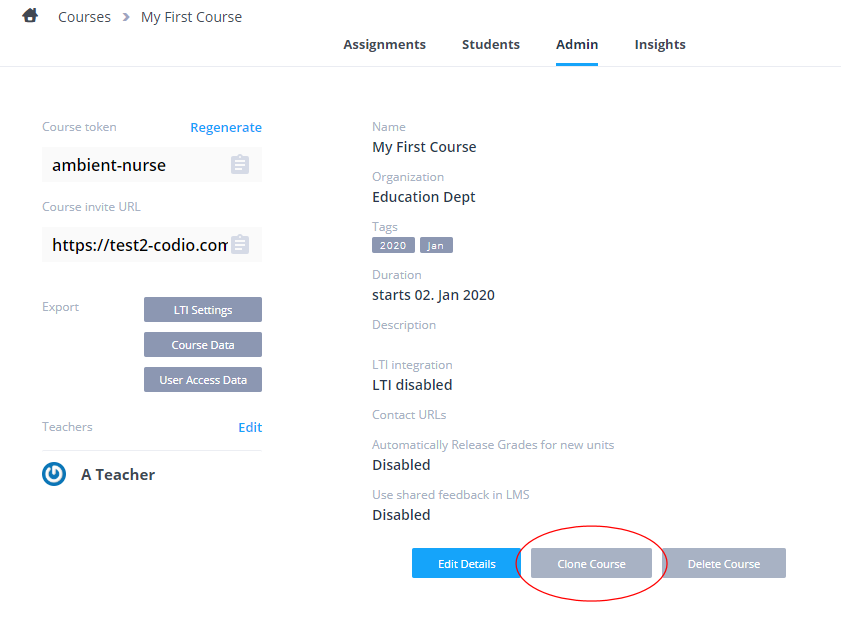
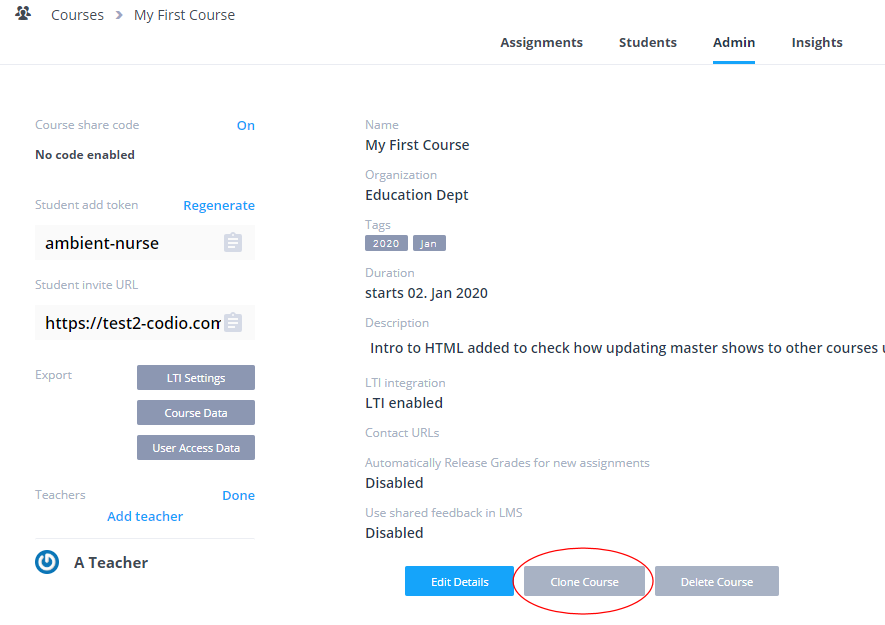
more updates

diff --git a/docs/courses/classes.md b/docs/courses/classes.md
@@ -34,14 +34,23 @@ To work with the course features in Codio you will first need to set up a course
 
 You can create courses from a code other users in other organisations can share to you. 
 
-1. Select the **From Share Code** option
+1. Select the **Add From Share Code** option
 
 1. Enter the code given and complete all other details and the course will be created for you.
-
+![Share Course Dash](/img/manage_classes/createsharecode.png)
 ### Sharing your course with others
 
-**TODO**
-![Share Course Dash](/img/manage_classes/sharecode.png)
+To share your course with others
+1. Select the existing course, go to the **Admin** area.
+
+1. Enable **Course share code** and a code will be generated.
+
+1. Copy to your clipboard and share out as required.
+
+1. In order that you can manage access you can disable the code and/or regenerate to create a new code and the original code can no longer be used.  
+
+![Create Share Code](/img/manage_classes/sharecode.png)
+
 ### Cloning a Course
 
 You can clone an existing course to create a new course in 2 ways
@@ -366,30 +375,30 @@ The simplest and quickest thing you can do is to assign one of your projects to 
 At this point, we take a snapshot of your source project, ready for the students to clone when they start the assignment. Any changes you make to the source project will not be reflected automatically in the student assignment.
 
 Once assigned to the course, each student will be able to access the assignment from their dashboard. Go to the **Students** tab and login as one of the test students. Make sure you have the correct course and module selected form the dropdowns. You will now see the assignment in the list. If you don't, make sure the module dropdown has the correct module name selected.  You can then switch back to your teacher account.
-### Assign resource modules to the course
+### Assign existing modules to the course
 You can assign existing course modules and all of its assignments to your course with a single action.
 
 To assign an existing course module, follow the steps below:
 
 1. From the **Courses** screen, click on your course to open it.
 
+1. Click on the **blue plus** sign, top left of the page, and choose **Add Copy from Existing**.
 
-
-1. Click on the **blue plus** sign, top left of the page, and choose **Copy from Existing**.
-![authtoken](/img/manage_classes/blue_plus.png)
+![Add Copy](/img/manage_classes/addcopy.png)
 
 1. Choose the course you want to copy the content from and select the modules you wish and click **Select**
 
-
 1. The module will appear in your course.
+
+To add Codio resources to your courses see [Creating from Resources](/resources/schoolscontent/coursefind/)
 
 ## Removing course module from a course
 
 You can remove course modules from a course selecting the **Delete** button
-![authtoken](/img/manage_classes/deletemodule.png)
+![delete module](/img/manage_classes/deletemodule.png)
 
 You can also remove individual assignments from a module, clicking the **Delete** button for that assignment
-![authtoken](/img/manage_classes/deleteassignment.png)
+![deleteassignment](/img/manage_classes/deleteassignment.png)
 
 **Warning**
 Deleting a module or assignment from your course also removes all student data for all the assignments in the module (including assessment data and results) and cannot be restored so you may wish to [Download CSV](/courses/grading/#download-csv-summary) before removing the module or assignment.

diff --git a/docs/dashboard/organisations.md b/docs/dashboard/organisations.md
@@ -193,9 +193,9 @@ You will be able to see all the members of your school organization.
 
 The **Test Students** group contains the demo student accounts created for you when the Organization was created. See [Test Students](/courses/classes/#test-students) for more information.
 
-The **Users without class** group contains all users that are not members of a course. See [Delete Course](/courses/classes/#deleting-a-course) for more information.  This may be as a result of a course being deleted or it may be that a new user has joined your organization but is not yet either a Teacher or a Student in a course.
+The **Users without course** group contains all users that are not members of a course. See [Delete Course](/courses/classes/#deleting-a-course) for more information.  This may be as a result of a course being deleted or it may be that a new user has joined your organization but is not yet either a Teacher or a Student in a course.
 Select this group and you can then remove these users from your organization if required.
-![authtoken](/img/manage_organization/orphanedusers.png)
+![OrphanedUsers](/img/manage_organization/orphanedusers.png)
 
 Please note that removing users from your Organization does not delete their Codio account. Only the account owner can [delete their account](/dashboard/account/#delete-your-account).
 
@@ -309,7 +309,7 @@ To remove members:
 1. You will be able to see all the members of your school organization.
 1. Choose **Remove** on the right hand side of the name of the person who you want to remove from your organization.
 
-1. If a course was deleted and students removed, they will show in the **Users without class** section and may be easier for you to find the students to remove
+1. If a course was deleted and students removed, they will show in the **Users without course** section and may be easier for you to find the students to remove
 
 
 1. If you want to use the freed-up accounts with new students, follow the steps listed in [Add students to a course](/courses/classes/#add-students-to-a-course)

diff --git a/docs/courses/authoring.md b/docs/courses/authoring.md
@@ -556,13 +556,13 @@ In a page authored using Markdown, you are able to create buttons and other acti
 - `codio.assessments.send(assessmentId, answer, points, callback)` - Sends result data for a custom assessment. `answer` contains the custom result data for `assessment` and will be stored in Codio. You can use `codio.assessments.get()` to reconstruct the output for an already answered question.
 - `codio.resetCurrentFiles()` - Allows students to restore current files in guides within your content.
 
-## Teacher only content  TODO
+## Teacher only content  
+
 Teacher only content can be viewed by teachers when:
 
-- using [open as teacher](/classes/unitmanagement/settings-info/teachersolutions) opening a assignment within a course module in a course
+- opening a assignment within a course module in a course
 - [viewing student code](/courses/grading/#accessing-student-work) within a course
-- working on a assignment in a [course](courses/coursemanagement/#working-with-courses) with the 'View as teacher' function enabled
-![View as Teacher](/img/teachersolutions.png)
+
 
 
 Warning

diff --git a/docs/resources/schoolscontent/coursefind.md b/docs/resources/schoolscontent/coursefind.md
@@ -1,11 +1,14 @@
 ---
-title: Finding Courses
-
+title: Finding Codio Resouces
 
 ---
 
 
-Select **Resources** from the dashboard. You will see **Recommended** courses that are created or recommended by Codio.
+Select **Resources** from the dashboard. You will see a list of courses that are created or recommended by Codio.
 
+![CodioResources](/img/manage_classes/codioresources.png)
 
-If you then select a course, you are shown a list of modules. You can create new modules and add also add modules belonging to other courses to your course by selecting the **Edit Courses** slider.
+Select a course, you can then either create a new course or add the modules to an existing course. 
+
+![CreatefromResources](/img/manage_classes/createfromresources.png)
+

diff --git a/docs/courses/settings-actions.md b/docs/courses/settings-actions.md
@@ -41,7 +41,7 @@ You can specify whether the page content type is markdown (strongly recommended)
 
 <a name="teacheronly"></a>
 ### Teacher only content
-If this switch is enabled then the page contents will not be show to students. Teachers will be able to see it when they select **Open as teacher** from a assignment in a course.
+If this switch is enabled then the page contents will not be show to students. Teachers will be able to see it when they open an assignment in a course or when opening a students assignment.
 
 ### Learning Objectives
 This is a tag field that can be useful for data analysis.
